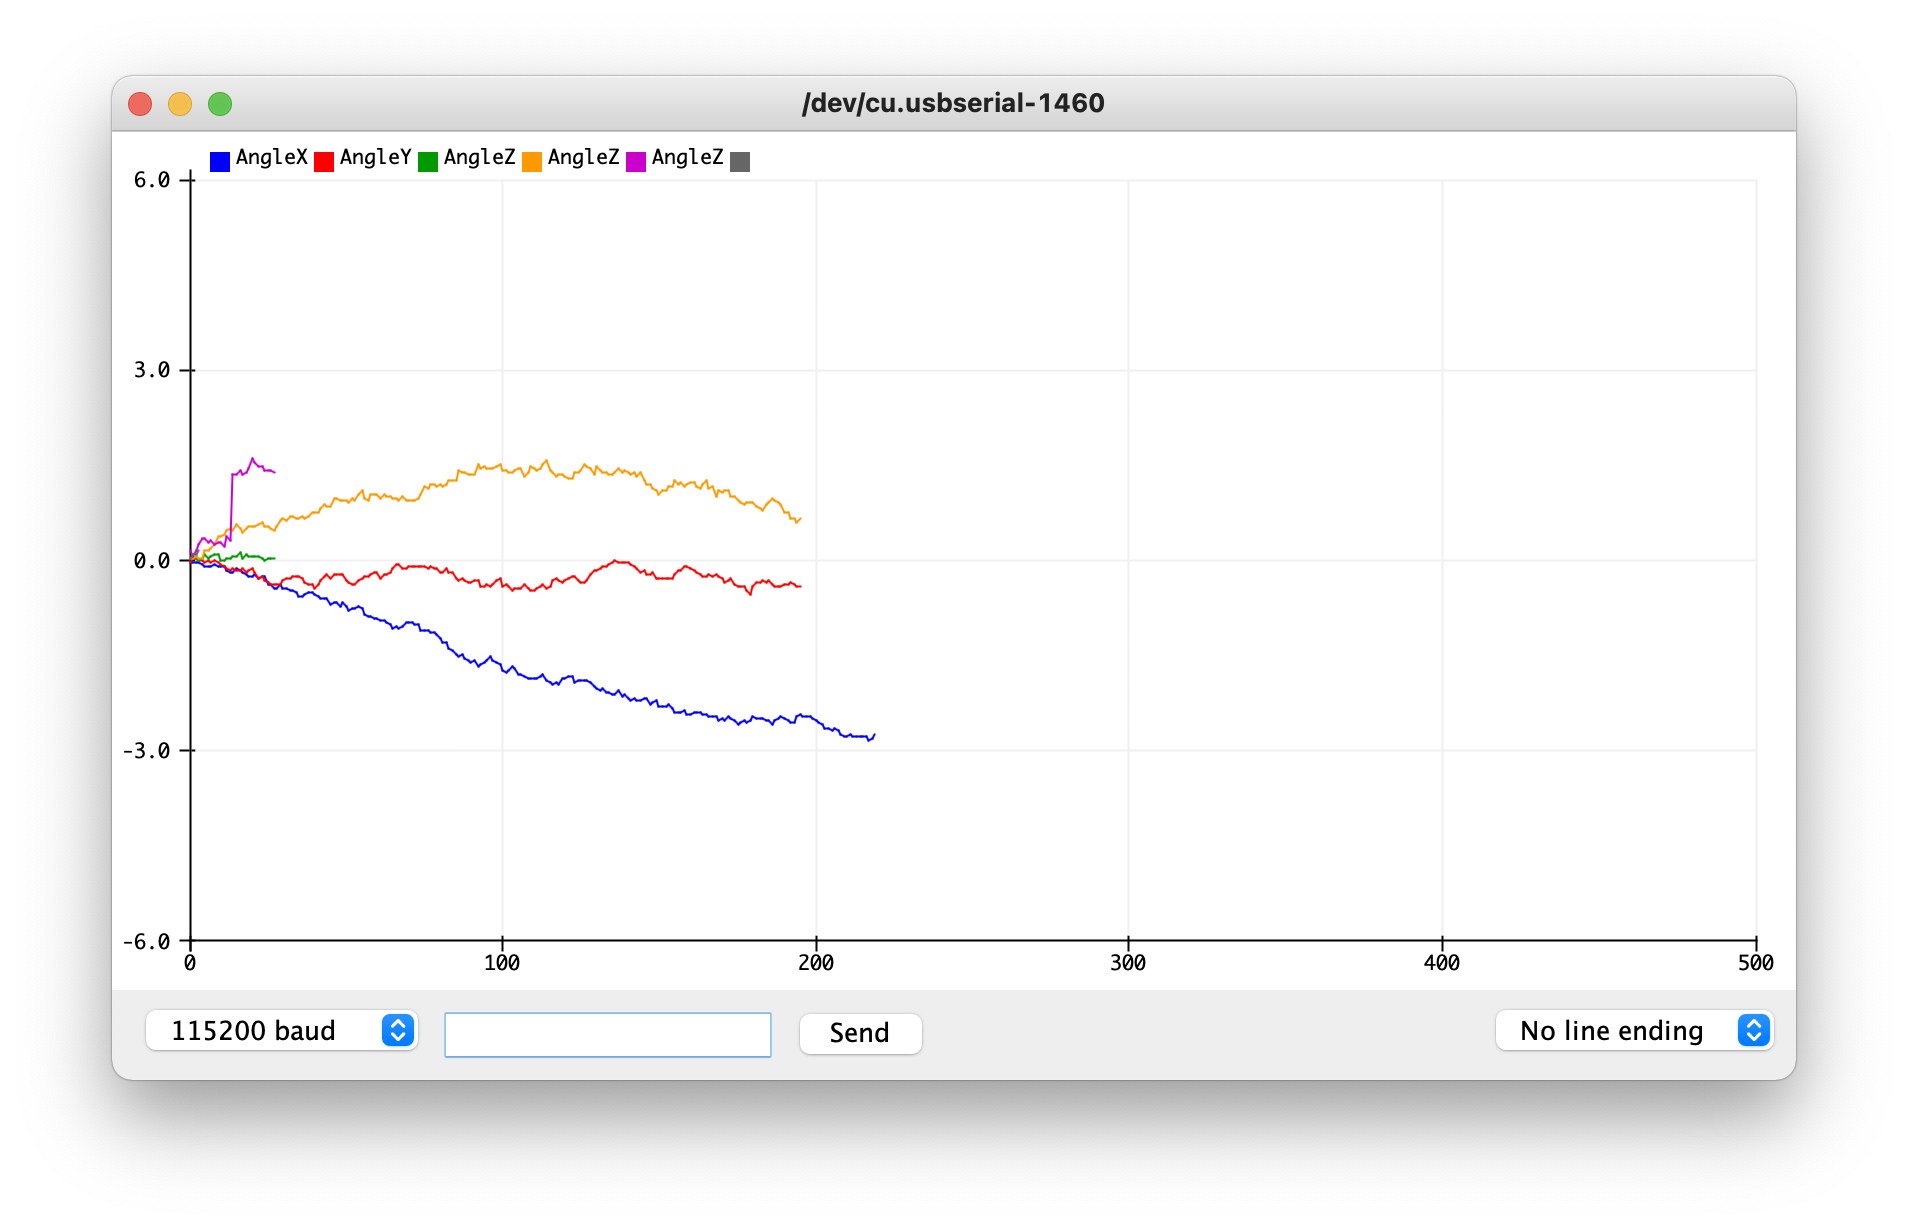
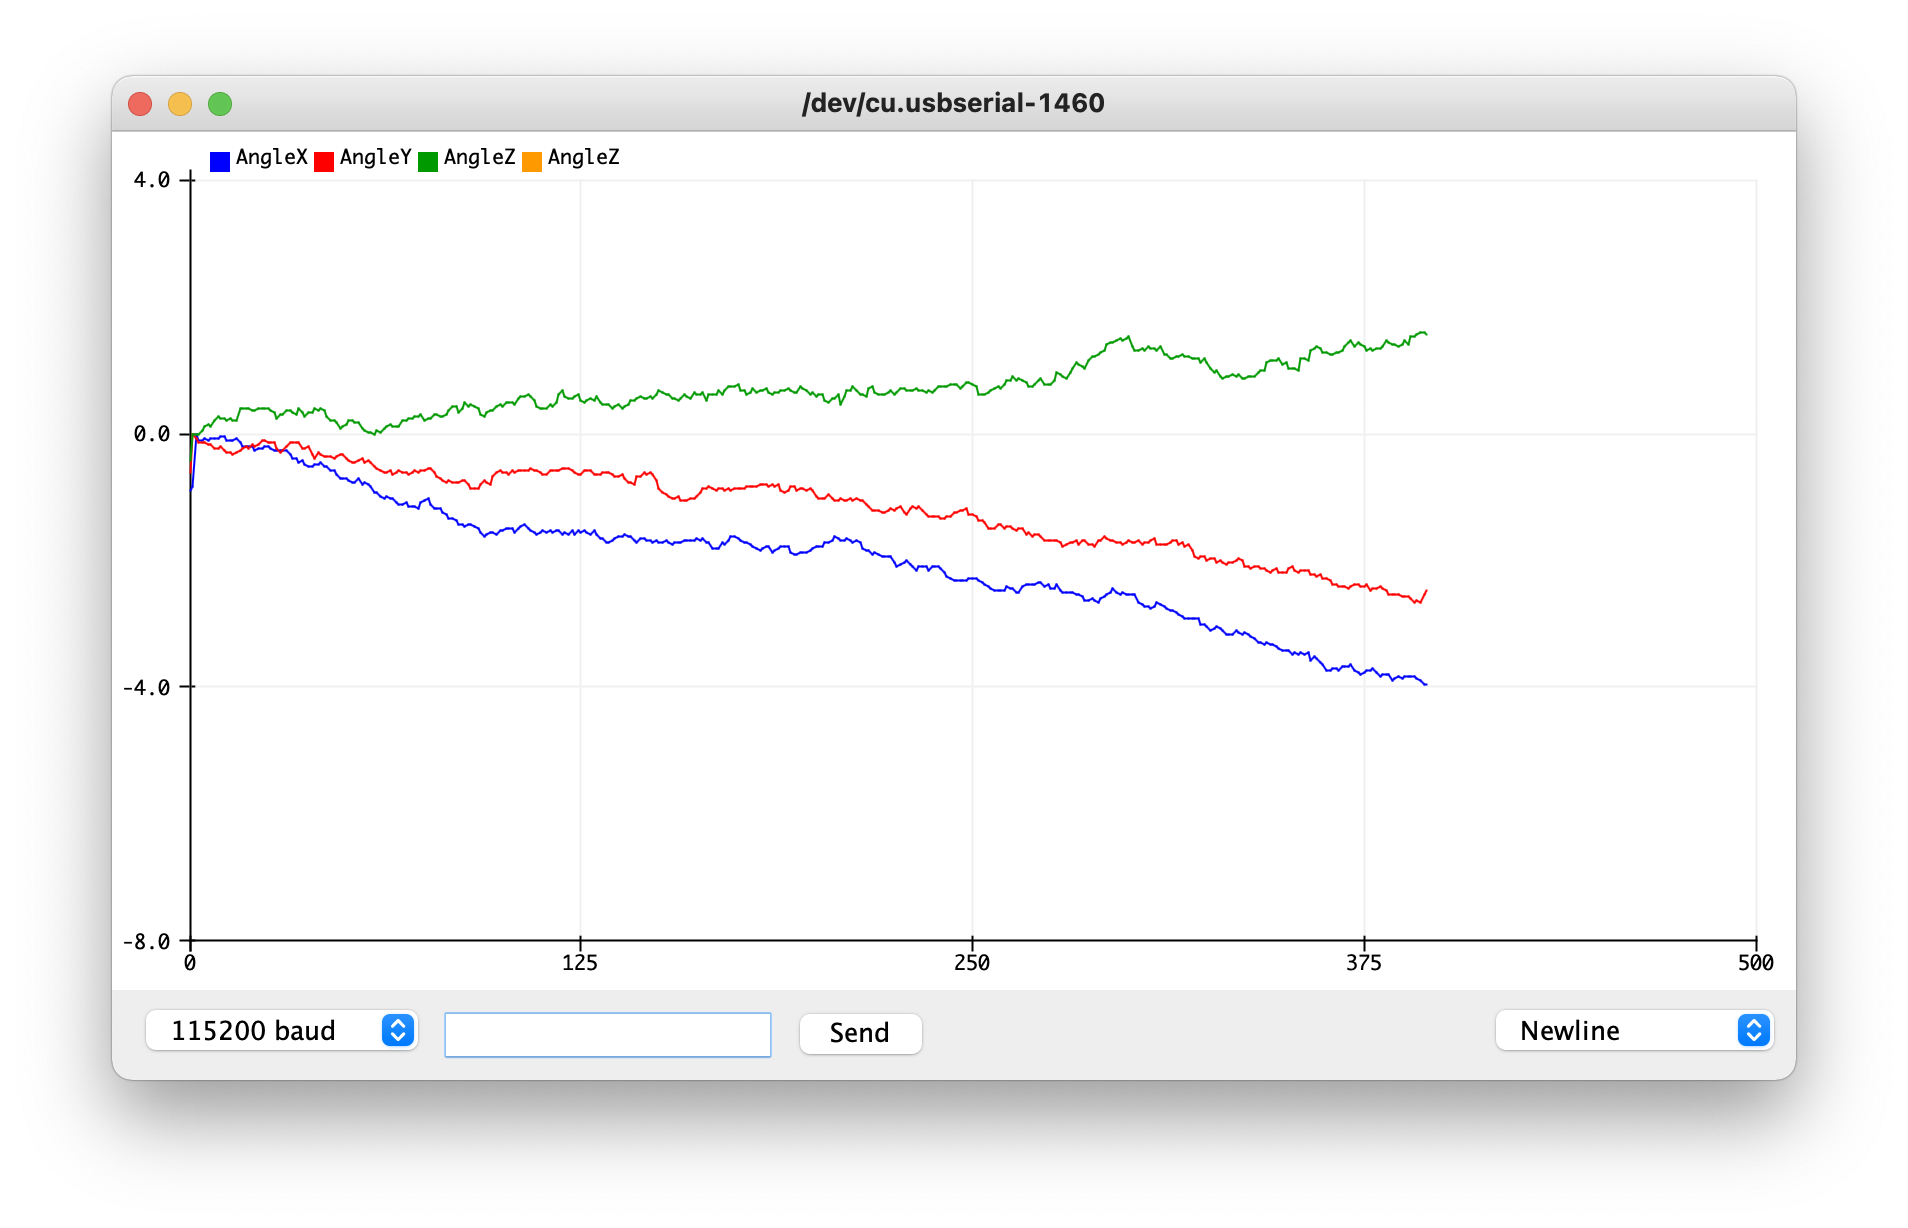
Finish gyroscope part

diff --git a/lab3.md b/lab3.md
@@ -384,4 +384,6 @@ Decreasing the sampling frequency to 28 Hz (slower than 30 Hz to account for any
 
 ![gyro drift at 28 hz](lab03_photos/gyro-drift-28hz.png)
 
-TODO Use a complimentary filter to compute an estimate of pitch and roll which is both accurate and stable. Demonstrate its working range and accuracy, and that it is not susceptible to drift or quick vibrations.
+I then used a complementary filter with constants of 0.05 (determined by experimentation, like the accelerometer) to help resist drift and quick vibrations while still showing motions that appear deliberate:
+
+![gyroscope with complementary filter](lab03_photos/gyro-comp-OK.png)
